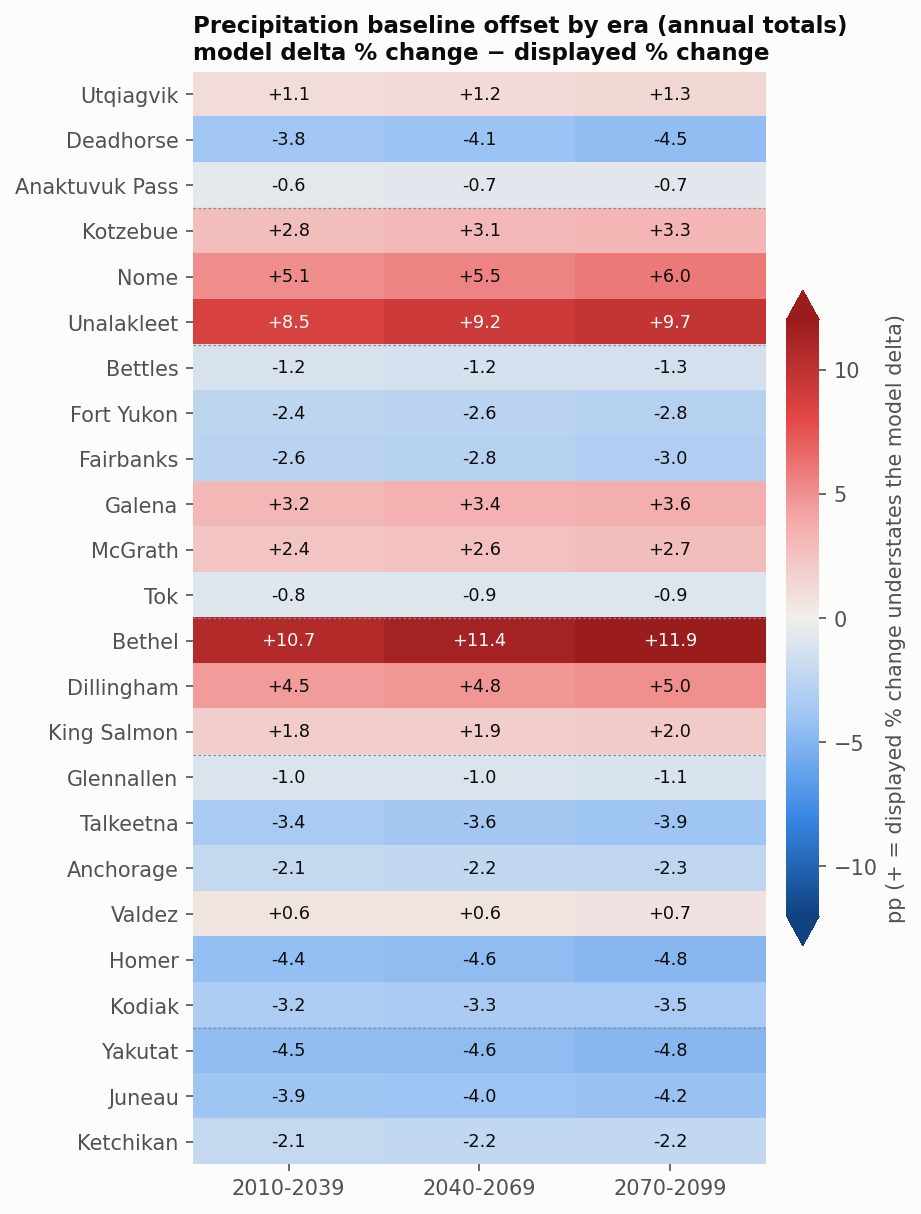
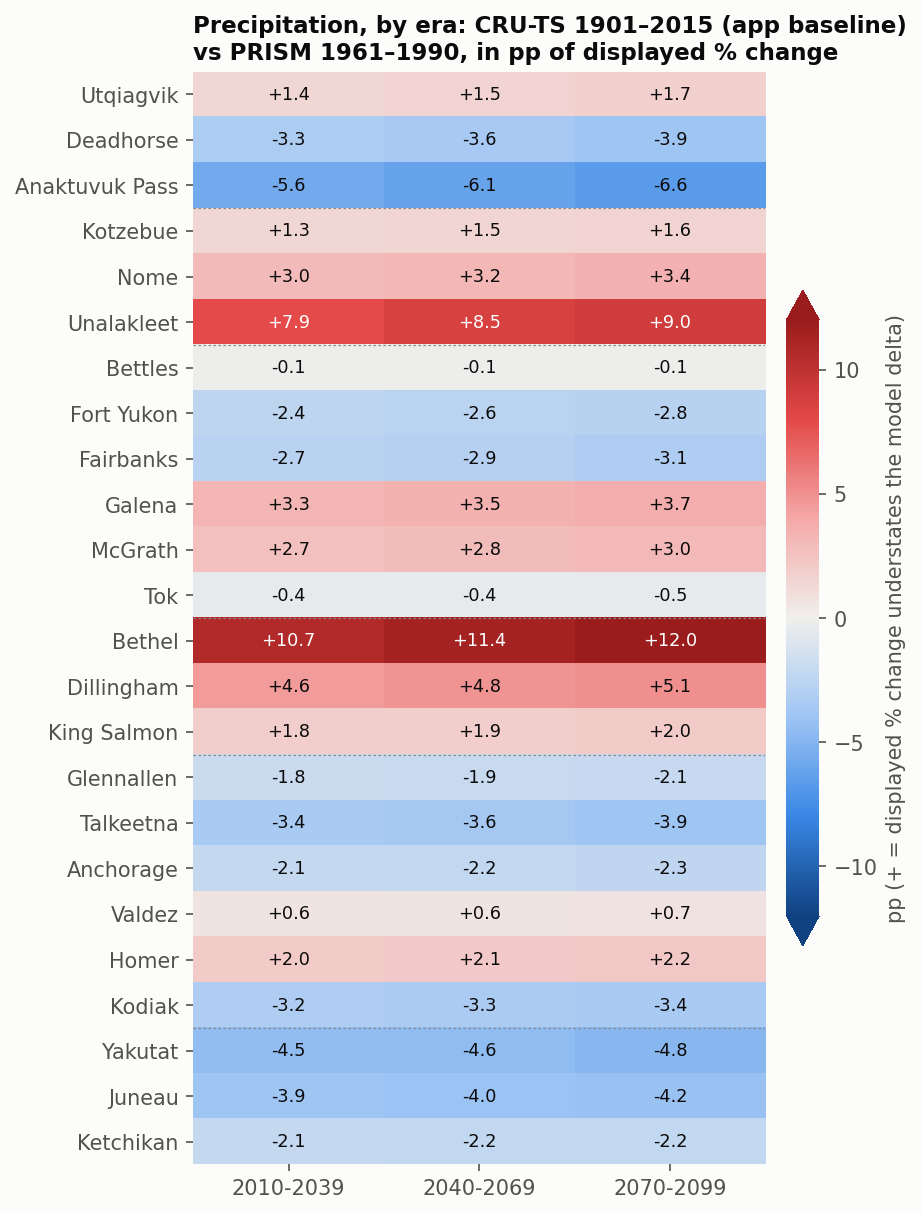
Compare the app baseline directly with PRISM in the baseline maps and heatmaps
Figs. 9 and 12 now map CRU-TS 1901-2015 minus/vs PRISM 1961-1990: the CRU
mean grids come from WCPS and PRISM is subtracted locally
(baseline_vs_prism_maps.py). Fig. 11 switches to the PRISM reference, and
all four AR5 baseline figures say what they compare in their titles.

diff --git a/delta_change_method/make_figures.py b/delta_change_method/make_figures.py
@@ -303,16 +303,16 @@ def fig_ar5_tas_monthly(sites):
     cb = fig.colorbar(im, ax=ax, shrink=0.6, pad=0.02)
     cb.set_label("°C (+ = displayed change understates the model delta)")
     cb.outline.set_visible(False)
-    ax.set_title("Temperature baseline offset by month\nCRU-TS 1901–2015 mean − PRISM 1961–1990", loc="left")
+    ax.set_title("Temperature, by month: CRU-TS 1901–2015 (app baseline)\n− PRISM 1961–1990", loc="left")
     fig.tight_layout()
     fig.savefig(FIGS / "fig8_ar5_temperature_monthly_offset.png", dpi=150, bbox_inches="tight")
     plt.close(fig)
 
 
 def fig_ar5_precip_eras(sites):
-    """Annual precip: shift in the displayed % change by site and era (vs CRU-TS 2km 1961-1990 mean)."""
+    """Annual precip: shift in the displayed % change by site and era, CRU-TS 1901-2015 vs PRISM 1961-1990."""
     df = pd.read_csv(DATA / "ar5_baseline_comparison.csv")
-    m = df[df.component == "precipitation"].pivot(index="site", columns="era", values="pp_shift_cru_2km").reindex(index=sites, columns=ERAS)
+    m = df[df.component == "precipitation"].pivot(index="site", columns="era", values="pp_shift").reindex(index=sites, columns=ERAS)
     fig, ax = plt.subplots(figsize=(6.2, 8.2))
     lim = 12
     im = ax.imshow(m.values, cmap=DIVERGING, norm=TwoSlopeNorm(0, -lim, lim), aspect="auto")
@@ -329,43 +329,10 @@ def fig_ar5_precip_eras(sites):
     cb = fig.colorbar(im, ax=ax, shrink=0.6, pad=0.03, extend="both")
     cb.set_label("pp (+ = displayed % change understates the model delta)")
     cb.outline.set_visible(False)
-    ax.set_title("Precipitation baseline offset by era (annual totals)\n"
-                 "model delta % change − displayed % change", loc="left")
+    ax.set_title("Precipitation, by era: CRU-TS 1901–2015 (app baseline)\n"
+                 "vs PRISM 1961–1990, in pp of displayed % change", loc="left")
     fig.tight_layout()
     fig.savefig(FIGS / "fig11_ar5_precipitation_offset_by_era.png", dpi=150, bbox_inches="tight")
-    plt.close(fig)
-
-
-def fig_ar5_tas_map():
-    fp = DATA / "maps" / "temperature_baseline_offset.tif"
-    if not fp.exists():  # produced by wcps_server_side.tas_offset_map() (~1 hour)
-        return
-    with rio.open(fp) as src:
-        a = src.read(1).astype(float)
-        b = src.bounds
-    a[(a < -9000) | ~np.isfinite(a)] = np.nan
-    a = a.T  # tas_2km_historical_wcs comes back with X/Y transposed (rows are X)
-    xs, ys = zip(*[to_3338(s[2], s[3]) for s in SITES])
-    fig, ax = plt.subplots(figsize=(7.6, 5.8))
-    lim = 0.35
-    im = ax.imshow(a, extent=(b.left, b.right, b.bottom, b.top), cmap=DIVERGING,
-                   norm=TwoSlopeNorm(0, -lim, lim), interpolation="nearest")
-    ax.scatter(xs, ys, s=10, color=INK, lw=0)
-    ax.set_xlim(-1.0e6, 1.55e6)
-    ax.set_ylim(0.35e6, 2.45e6)
-    ax.set_aspect("equal")
-    ax.set_xticks([])
-    ax.set_yticks([])
-    ax.grid(False)
-    for s in ax.spines.values():
-        s.set_visible(False)
-    cb = fig.colorbar(im, ax=ax, shrink=0.8, pad=0.01, extend="both")
-    cb.outline.set_visible(False)
-    cb.set_label("°C (CRU-TS 1901–2015 − CRU-TS 2km 1961–1990)")
-    ax.set_title("Temperature: app baseline vs the CRU-TS 2 km 1961–1990 mean, annual\n"
-                 "(red = app baseline warmer, so displayed change is understated; 12 WCPS requests)", loc="left", fontsize=10)
-    fig.tight_layout()
-    fig.savefig(FIGS / "fig12_ar5_temperature_baseline_map.png", dpi=150, bbox_inches="tight")
     plt.close(fig)
 
 
@@ -416,15 +383,17 @@ def fig_prism_verification(sites):
     plt.close(fig)
 
 
-def fig_ar5_precip_map():
-    with rio.open(DATA / "maps" / "precipitation_baseline_ratio.tif") as src:
+def _baseline_map(fp, lim, unit_label, title, out):
+    """North-up GeoTIFF from baseline_vs_prism_maps.py -> Alaska map with the test sites."""
+    if not fp.exists():  # produced by baseline_vs_prism_maps.py
+        return
+    with rio.open(fp) as src:
         a = src.read(1).astype(float)
         b = src.bounds
-    a[(a < -9000) | ~np.isfinite(a)] = np.nan  # the 2km AR5 coverage is not transposed
+    a[~np.isfinite(a)] = np.nan
     xs, ys = zip(*[to_3338(s[2], s[3]) for s in SITES])
     fig, ax = plt.subplots(figsize=(7.6, 5.8))
-    lim = 15
-    im = ax.imshow(100 * (a - 1), extent=(b.left, b.right, b.bottom, b.top), cmap=DIVERGING,
+    im = ax.imshow(a, extent=(b.left, b.right, b.bottom, b.top), cmap=DIVERGING,
                    norm=TwoSlopeNorm(0, -lim, lim), interpolation="nearest")
     ax.scatter(xs, ys, s=10, color=INK, lw=0)
     ax.set_xlim(-1.0e6, 1.55e6)
@@ -437,12 +406,31 @@ def fig_ar5_precip_map():
         s.set_visible(False)
     cb = fig.colorbar(im, ax=ax, shrink=0.8, pad=0.01, extend="both")
     cb.outline.set_visible(False)
-    cb.set_label("% (CRU-TS 1901–2015 vs CRU-TS 2km 1961–1990)")
-    ax.set_title("Precipitation: app baseline vs the 1961–1990 reference the deltas were added to\n"
-                 "(red = app baseline wetter, so displayed % change is understated; one WCPS request)", loc="left", fontsize=10)
+    cb.set_label(unit_label)
+    ax.set_title(title, loc="left", fontsize=10)
     fig.tight_layout()
-    fig.savefig(FIGS / "fig9_ar5_precipitation_baseline_map.png", dpi=150, bbox_inches="tight")
+    fig.savefig(FIGS / out, dpi=150, bbox_inches="tight")
     plt.close(fig)
+
+
+def fig_ar5_precip_map():
+    _baseline_map(
+        DATA / "maps" / "precipitation_cru1901_2015_vs_prism_pct.tif", 15,
+        "% (CRU-TS 1901–2015 vs PRISM 1961–1990)",
+        "Precipitation, annual: CRU-TS 1901–2015 (app baseline) vs PRISM 1961–1990\n"
+        "(red = app baseline wetter, so displayed % change is understated)",
+        "fig9_ar5_precipitation_baseline_map.png",
+    )
+
+
+def fig_ar5_tas_map():
+    _baseline_map(
+        DATA / "maps" / "temperature_cru1901_2015_minus_prism.tif", 0.5,
+        "°C (CRU-TS 1901–2015 − PRISM 1961–1990)",
+        "Temperature, annual: CRU-TS 1901–2015 (app baseline) − PRISM 1961–1990\n"
+        "(red = app baseline warmer, so displayed change is understated)",
+        "fig12_ar5_temperature_baseline_map.png",
+    )
 
 
 if __name__ == "__main__":

diff --git a/delta_change_method/baseline_vs_prism_maps.py b/delta_change_method/baseline_vs_prism_maps.py
@@ -1,0 +1,84 @@
+"""Statewide maps: the app's historical baseline (CRU-TS 1901-2015 mean) vs PRISM 1961-1990.
+
+Inputs:
+  * data/maps/temperature_cru_1901_2015.tif and data/maps/precipitation_cru_1901_2015.tif,
+    from wcps_server_side.tas_baseline_map() / precip_baseline_map()
+  * the SNAP PRISM 1961-1990 2km GeoTIFFs (GeoNetwork record 0e8e42f7-6774-4d35-a7b3-4a82f8b48e00)
+
+Temperature: tas_2km_historical_wcs is on the PRISM grid, so after undoing the coverage's X/Y
+transpose the cells line up one to one. Precipitation: annual_precip_totals_mm was warped onto a
+slightly different grid at ingest, so the PRISM annual total is nearest-neighbour resampled onto
+it. That resampling doesn't always pick the same source cell the ingest warp did, so expect
+cell-scale speckle in steep terrain (see prism_check.py).
+
+Writes data/maps/temperature_cru1901_2015_minus_prism.tif (°C, north-up) and
+data/maps/precipitation_cru1901_2015_vs_prism_pct.tif (%, north-up).
+
+Usage: python baseline_vs_prism_maps.py /path/to/prism
+"""
+
+import sys
+from pathlib import Path
+
+import numpy as np
+import rasterio as rio
+from rasterio.warp import Resampling, reproject
+
+MAPS = Path(__file__).parent / "data" / "maps"
+
+
+def read_prism(prism_dir, var, pattern, reduce):
+    arrs = []
+    for m in range(1, 13):
+        with rio.open(prism_dir / var / pattern.format(m=f"{m:02d}")) as src:
+            arrs.append(src.read(1, masked=True).filled(np.nan))
+            profile = src.profile
+    return reduce(np.array(arrs), axis=0).astype("float32"), profile
+
+
+def write(fp, arr, transform, crs):
+    with rio.open(
+        fp, "w", driver="GTiff", height=arr.shape[0], width=arr.shape[1], count=1,
+        dtype="float32", crs=crs, transform=transform, nodata=np.nan, compress="lzw",
+    ) as dst:
+        dst.write(arr.astype("float32"), 1)
+
+
+def temperature(prism_dir):
+    prism, pprof = read_prism(prism_dir, "tas", "tas_mean_C_akcan_prism_{m}_1961_1990.tif", np.mean)
+    with rio.open(MAPS / "temperature_cru_1901_2015.tif") as src:
+        cru = src.read(1).astype("float32").T  # undo the coverage's X/Y transpose -> rows are Y
+        b = src.bounds
+    cru[(cru < -9000) | ~np.isfinite(cru)] = np.nan
+    # locate the CRU block inside the PRISM grid (same 2km cells)
+    pt = pprof["transform"]
+    row0 = round((pt.f - b.top) / -pt.e)
+    col0 = round((b.left - pt.c) / pt.a)
+    p = prism[row0 : row0 + cru.shape[0], col0 : col0 + cru.shape[1]]
+    diff = cru - p
+    transform = rio.transform.from_origin(b.left, b.top, pt.a, -pt.e)
+    write(MAPS / "temperature_cru1901_2015_minus_prism.tif", diff, transform, pprof["crs"])
+    return diff
+
+
+def precipitation(prism_dir):
+    prism, pprof = read_prism(prism_dir, "pr", "pr_total_mm_akcan_prism_{m}_1961_1990.tif", np.sum)
+    with rio.open(MAPS / "precipitation_cru_1901_2015.tif") as src:
+        cru = src.read(1).astype("float32")  # this coverage is not transposed
+        transform, crs = src.transform, src.crs
+    cru[(cru < -9000) | ~np.isfinite(cru)] = np.nan
+    p = np.full(cru.shape, np.nan, dtype="float32")
+    reproject(prism, p, src_transform=pprof["transform"], src_crs=pprof["crs"],
+              dst_transform=transform, dst_crs=crs, src_nodata=np.nan, dst_nodata=np.nan,
+              resampling=Resampling.nearest)
+    pct = 100 * (cru / p - 1)
+    write(MAPS / "precipitation_cru1901_2015_vs_prism_pct.tif", pct, transform, crs)
+    return pct
+
+
+if __name__ == "__main__":
+    prism_dir = Path(sys.argv[1])
+    t = temperature(prism_dir)
+    print("temperature CRU1901-2015 − PRISM (°C) percentiles 1/50/99:", np.nanpercentile(t, [1, 50, 99]).round(2))
+    pr = precipitation(prism_dir)
+    print("precip CRU1901-2015 vs PRISM (%) percentiles 1/50/99:", np.nanpercentile(pr, [1, 50, 99]).round(1))

diff --git a/delta_change_method/wcps_server_side.py b/delta_change_method/wcps_server_side.py
@@ -241,6 +241,57 @@ def tas_offset_map():
         dst.write(annual, 1)
 
 
+def tas_cru_6190_month_query(month):
+    """CRU-TS 2km 1961-1990 mean for one calendar month (30 slices; cheap)."""
+    X, Y = "X(-2173223:1491905)", "Y(316704:2475554)"
+    return (
+        "for $c in (tas_2km_historical_wcs) return encode("
+        f"(condense + over $y year(60:89) using $c.tas[month({month}),year($y),{X},{Y}]) / 30.0,"
+        ' "image/tiff")'
+    )
+
+
+def tas_baseline_map():
+    """App temperature baseline (CRU-TS 1901-2015 annual mean) statewide, rebuilt per month as
+    (1901-2015 minus 1961-1990 offset) + (1961-1990 mean), then averaged over months.
+    Output stays in the transposed orientation the coverage returns."""
+    import rasterio as rio
+
+    tas_offset_map()
+    arrs, profile = [], None
+    for m in range(12):
+        fp = MAPS / f"temperature_cru_1961_1990_m{m + 1:02d}.tif"
+        if not fp.exists():
+            r, secs = run(tas_cru_6190_month_query(m), timeout=1800)
+            fp.write_bytes(r.content)
+            print(f"1961-1990 month {m + 1}: {secs:.0f}s", flush=True)
+        with rio.open(fp) as src:
+            h = src.read(1).astype("float32")
+            profile = src.profile
+        with rio.open(MAPS / f"temperature_baseline_offset_m{m + 1:02d}.tif") as src:
+            off = src.read(1).astype("float32")
+        h[h < -9000] = float("nan")
+        off[off < -9000] = float("nan")
+        arrs.append(h + off)
+    profile.update(dtype="float32", nodata=float("nan"))
+    with rio.open(MAPS / "temperature_cru_1901_2015.tif", "w", **profile) as dst:
+        dst.write(np.nanmean(np.array(arrs), axis=0), 1)
+
+
+def precip_baseline_query():
+    """App precipitation baseline (CRU-TS 1901-2015 mean annual total) statewide."""
+    yrs = "(" + " + ".join(f"$c[model(0),scenario(0),year({T(y)})]" for y in range(1901, 2016)) + ")"
+    return f'for $c in (annual_precip_totals_mm) return encode({yrs} / 115.0, "image/tiff")'
+
+
+def precip_baseline_map():
+    fp = MAPS / "precipitation_cru_1901_2015.tif"
+    if not fp.exists():
+        r, secs = run(precip_baseline_query())
+        fp.write_bytes(r.content)
+        print(f"precip 1901-2015 mean: {secs:.0f}s", flush=True)
+
+
 MAP_QUERIES = {
     "freezing_index_adjustment": map_adjustment("air_freezing_index_Fdays"),
     "freezing_index_baseline": map_baseline("air_freezing_index_Fdays"),
@@ -271,3 +322,5 @@ if __name__ == "__main__":
     cap_check()
     maps()
     tas_offset_map()  # ~1 hour
+    tas_baseline_map()  # + ~10-20 min
+    precip_baseline_map()

diff --git a/delta_change_method/REPORT.md b/delta_change_method/REPORT.md
@@ -125,8 +125,8 @@ For the multiplicative form, the body becomes `min(G_fut / G_hist, 3.0)`. `switc
 | Grid | Resolution | Time | Size | Figure |
 |---|---|---|---|---|
 | Degree-day adjustment fields | 12 km | 0.7–0.8 s each | 0.6 MB | [Fig. 5](#figures) |
-| Precipitation baseline-offset grid | 2 km | 7–77 s (server caching varies) | 16 MB | [Fig. 9](#figures) |
-| Temperature baseline-offset grid | 2 km | 12 monthly requests, 1.5–4.5 min each (one request for all months exceeded 10 min) | 16 MB each | [Fig. 12](#figures) |
+| CRU-TS 1901–2015 precipitation mean grid | 2 km | 41 s | 16 MB | [Fig. 9](#figures) (PRISM subtracted locally) |
+| CRU-TS 1901–2015 temperature mean grid | 2 km | 24 monthly requests: 12 offsets at 1.5–4.5 min each (one request for all months exceeded 10 min) plus 12 1961–1990 means at ~20–50 s each | 16 MB each | [Fig. 12](#figures) (PRISM subtracted locally) |
 
 For temperature and precipitation, WCPS can likewise compute baseline offsets or re-anchored values on the fly, since everything they need is in Rasdaman.
 
@@ -193,7 +193,7 @@ Results at mid-century (2040–2069), 24 sites. The full table is in [`data/ar5_
 
 | | Displayed change (vs CRU 1901–2015) | Model delta (vs CRU-TS 2 km 1961–1990 mean) | Difference | Same, using the PRISM file |
 |---|---|---|---|---|
-| Temperature, annual | +2.6 to +6.2 °C (median +4.2) | +2.7 to +6.5 °C (median +4.3) | **Displayed understates by 0.07–0.30 °C** (largest at Utqiagvik); understated everywhere statewide ([Fig. 12](#figures)) | −0.38 to +0.31 °C; differs only at Valdez (−0.38 vs +0.15) and Ketchikan (+0.30 vs +0.11) |
+| Temperature, annual | +2.6 to +6.2 °C (median +4.2) | +2.7 to +6.5 °C (median +4.3) | **Displayed understates by 0.07–0.30 °C** (largest at Utqiagvik); and against PRISM understated across 92% of the state ([Fig. 12](#figures)) | −0.38 to +0.31 °C; differs only at Valdez (−0.38 vs +0.15) and Ketchikan (+0.30 vs +0.11) |
 | Temperature, by month | — | — | **About −1.3 to +1.2 °C** | [Fig. 8](#figures) uses the PRISM file: −1.33 to +1.19 °C |
 | Precipitation | +4.4% to +28.2% | +5.5% to +26.8% | **−4.6 to +11.4 pp** (median \|shift\| 2.9 pp) | −6.1 to +11.4 pp; differs at Anaktuvuk Pass, Homer, Nome and Kotzebue (registration) |
 
@@ -204,7 +204,7 @@ How the precipitation offset varies across the state ([Fig. 9](#figures); by sit
 | Area | App baseline vs 1961–1990 | Effect on displayed % change | Example sites |
 |---|---|---|---|
 | Western Alaska / Y-K Delta | wetter | **understated** | Bethel +4.4% → +15.8%; Unalakleet +10.2% → +19.4%; Nome +12.0% → +17.5% |
-| Southeast, Southcentral, eastern Interior | drier | **overstated** | Yakutat +12.3% → +7.7%; Homer +18.9% → +14.3%; Juneau +10.8% → +6.8% |
+| Southeast, Southcentral, eastern Interior | drier | **overstated** | Yakutat +12.3% → +7.7%; Juneau +10.8% → +6.8%; Talkeetna +21.4% → +17.8% |
 
 Because the offset is a constant in each era, it matters proportionally more early in the century. The monthly temperature pattern (February, April and October–November baselines warmer than 1961–1990; January in the west colder) also affects the monthly tables the app shows, more than the annual numbers suggest.
 
@@ -304,16 +304,26 @@ Along the far southern coast and in the Aleutians, the freezing-index baseline a
 **Fig. 8: Temperature baseline offset by month, against the PRISM file.** Valdez and Ketchikan reflect the PRISM-file differences in steep terrain.
 ![](figures/fig8_ar5_temperature_monthly_offset.png)
 
-**Fig. 9: Precipitation baseline offset statewide (vs the CRU-TS 2 km 1961–1990 mean), from one WCPS request.**
+**Fig. 9: Precipitation, annual: CRU-TS 1901–2015 (app baseline) vs PRISM 1961–1990, statewide.**
+
+- **How it was made:** the CRU-TS 1901–2015 mean comes from one WCPS request. The PRISM annual total was nearest-neighbour resampled onto the precip coverage's grid ([`baseline_vs_prism_maps.py`](baseline_vs_prism_maps.py)).
+- **Pattern:** the app baseline is wetter in western Alaska (understated change) and drier in the Southeast, Southcentral and much of the Interior (overstated). Statewide the median is +0.9%; 5th–95th percentile −7.6% to +11.2%.
+- **Speckle along the mountain ranges** is partly real (the downloaded PRISM file differs from the climatology the data were built on there) and partly from resampling onto the warped grid.
+- **Check:** matches the site values exactly at the five sites checked.
 ![](figures/fig9_ar5_precipitation_baseline_map.png)
 
 **Fig. 10: The 1961–1990 reference checked against the downloaded PRISM files.** Left and middle: site values. Right: leftover terrain detail in AR5 minus each candidate climatology (smaller = shared underlying climatology).
 ![](figures/fig10_prism_verification.png)
 
-**Fig. 11: Precipitation baseline offset by site and era** (annual totals, vs the CRU-TS 2 km 1961–1990 mean). There is no monthly CRU-TS 4.0 precipitation in Rasdaman (the app's precip coverage stores annual totals only), so unlike Fig. 8 this is by era rather than by month. The mm offset is the same in every era, but the percentage-point shift grows slightly as projected totals rise.
+**Fig. 11: Precipitation, by site and era: CRU-TS 1901–2015 (app baseline) vs PRISM 1961–1990**, in percentage points of displayed % change (annual totals). Anaktuvuk Pass, Homer, Nome and Kotzebue reflect which 2 km PRISM cell is sampled (see C1); against the CRU-TS 2 km 1961–1990 mean they read −0.7, −4.6, +5.5 and +3.1 pp at mid-century. There is no monthly CRU-TS 4.0 precipitation in Rasdaman (the app's precip coverage stores annual totals only), so unlike Fig. 8 this is by era rather than by month. The mm offset is the same in every era, but the percentage-point shift grows slightly as projected totals rise.
 ![](figures/fig11_ar5_precipitation_offset_by_era.png)
 
-**Fig. 12: Temperature baseline offset statewide, annual** (CRU-TS 1901–2015 mean − CRU-TS 2 km 1961–1990 mean). It is positive everywhere (+0.01 to +0.32 °C), so the displayed annual change is understated across the whole state, most on the North Slope and the Gulf of Alaska coast. It was computed server-side as 12 monthly WCPS requests (~3–4 min each; a single request exceeded 10 minutes) and matches the site values to 0.001 °C.
+**Fig. 12: Temperature, annual: CRU-TS 1901–2015 (app baseline) − PRISM 1961–1990, statewide.**
+
+- **How it was made:** the CRU-TS 1901–2015 mean was built server-side from 24 monthly WCPS requests, then PRISM was subtracted on the identical 2 km grid ([`baseline_vs_prism_maps.py`](baseline_vs_prism_maps.py)).
+- **Pattern:** the app baseline is warmer across 92% of the state (median +0.16 °C; 5th–95th percentile −0.05 to +0.38 °C), so the displayed annual change is understated almost everywhere, most on the North Slope and the Gulf of Alaska coast.
+- **Speckle along the Brooks Range, Alaska Range, Chugach and Southeast mountains** is where the downloaded PRISM file differs from the climatology the AR5 and CRU-TS data were built on (see C1). Against the CRU-TS 2 km 1961–1990 mean instead, the offset is smooth and positive everywhere (+0.01 to +0.32 °C).
+- **Check:** matches the site values to 0.001 °C at the five sites checked.
 ![](figures/fig12_ar5_temperature_baseline_map.png)
 
 ---
@@ -334,7 +344,8 @@ python analyze.py                # degree days: current vs delta change method
 python prism_check.py PRISM_DIR            # PRISM file vs CRU-TS 2 km 1961–1990 mean at the sites
 python climatology_consistency.py PRISM_DIR  # which climatology the AR5 projections share their fine-scale pattern with (~2 min)
 python ar5_baseline.py PRISM_DIR            # temperature & precipitation: baseline offset
-python wcps_server_side.py       # server-side validation, cap check, statewide GeoTIFFs (~1 h, mostly the temperature map)
+python wcps_server_side.py       # server-side validation, cap check, statewide GeoTIFFs (~1.5 h, mostly the temperature grids)
+python baseline_vs_prism_maps.py PRISM_DIR  # CRU-TS 1901–2015 vs PRISM 1961–1990 grids for Figs. 9 and 12
 python make_figures.py           # figures/
 ```
 
